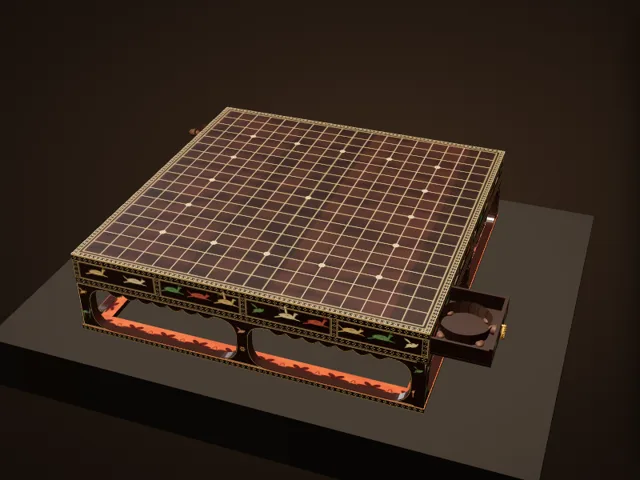
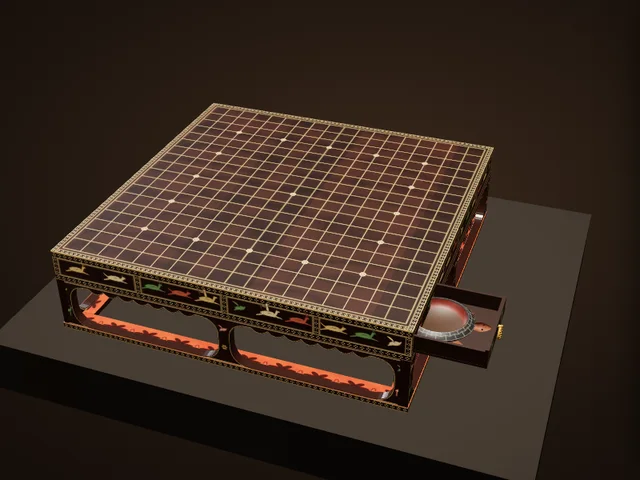
博物館：遠目のちらつきを修正（双六局の隅・ダイスタワーの透かし）、正倉院碁盤の亀形容器を写真に合わせて作り直し
Claude-Session: https://claude.ai/code/session_01EiWRAZTxRF5M5nk5vdR2jJ

diff --git a/atlas/museum/ex/shosoin.js b/atlas/museum/ex/shosoin.js
@@ -145,7 +145,7 @@
       [[S + .3, RW, 0, S / 2 - RW / 2 + .15], [S + .3, RW, 0, -S / 2 + RW / 2 - .15]].forEach(([w, d, x, z]) => add(new TT.BoxGeometry(w, RAIL, d), [rsM, rsM, kak, shitan, z > 0 ? rsM : shitan, z > 0 ? shitan : rsM], x, RAIL / 2, z));
       [[RW, S - 2 * RW + .3, S / 2 - RW / 2 + .15, 0], [RW, S - 2 * RW + .3, -S / 2 + RW / 2 - .15, 0]].forEach(([w, d, x, z]) => { const k2 = kak.clone(); k2.map = kakT.clone(); k2.map.center.set(.5, .5); k2.map.rotation = Math.PI / 2; k2.map.needsUpdate = true; add(new TT.BoxGeometry(w, RAIL, d), [x > 0 ? rsM : shitan, x > 0 ? shitan : rsM, k2, shitan, shitan, shitan], x, RAIL / 2, z); });
       /* ---------- the drawers: at diagonally opposite ends of the two side faces (±x); the near one pulled out ---------- */
-      const DW = S / 4 - .95, DH = BODY - TOP - 1.75, OUT = 7.2, gilt = K.mat({ color: '#d6a84c', roughness: .3, metalness: 1 });
+      const DW = S / 4 - .95, DH = BODY - TOP - 1.75, OUT = 8.6, gilt = K.mat({ color: '#d6a84c', roughness: .3, metalness: 1 });
       const dark = K.mat({ color: '#2a1810', roughness: .6 });
       const DG = new TT.Group(); DG.rotation.y = 0; G.add(DG);
       const drawer = (sx, z, out) => { const g2 = new TT.Group(); g2.position.set(sx * (S / 2 + out), BASE + (BODY - TOP) / 2, z); g2.rotation.y = sx > 0 ? Math.PI / 2 : -Math.PI / 2; DG.add(g2);
@@ -159,13 +159,36 @@
         const knob = new TT.Mesh(new TT.CylinderGeometry(.2, .2, .4, 12), gilt); knob.rotation.x = Math.PI / 2; knob.position.set(0, -.15 + RR + .1, .45); g2.add(knob);
         if (out > .1) { const sd = new TT.BoxGeometry(.35, DH - .3, out + 1); [-DW / 2 + .2, DW / 2 - .2].forEach(x => { const m = new TT.Mesh(sd, dark); m.position.set(x, -.15, -(out + 1) / 2); g2.add(m); });
           const bt = new TT.Mesh(new TT.BoxGeometry(DW, .3, out + 1), dark); bt.position.set(0, -DH / 2 + .15, -(out + 1) / 2); g2.add(bt);
-          // the turtle tray: a round open bowl with a shell-segmented rim, head and feet
-          const tr = new TT.Group(); tr.position.set(0, -DH / 2 + .3, -out / 2 - .6); g2.add(tr);
-          const rimT = K.tex(512, 64, (g, w, h) => { g.fillStyle = '#3a2418'; g.fillRect(0, 0, w, h); g.strokeStyle = '#1a0c06'; g.lineWidth = 3; for (let x = 0; x < w; x += 32) { g.beginPath(); g.moveTo(x, 0); g.lineTo(x + 8, h / 2); g.lineTo(x, h); g.stroke(); } });
-          const bowl = new TT.Mesh(new TT.CylinderGeometry(3.4, 3.1, 1.8, 40, 1, true), K.mat({ map: rimT, color: '#ffffff', roughness: .55, side: TT.DoubleSide })); bowl.position.y = .9; tr.add(bowl);
-          const inner = new TT.Mesh(new TT.CircleGeometry(3.1, 40), dark); inner.rotation.x = -Math.PI / 2; inner.position.y = .2; tr.add(inner);
-          const hd = new TT.Mesh(new TT.SphereGeometry(.75, 14, 10), K.mat({ color: '#4a2a18', roughness: .5 })); hd.scale.set(1, .8, 1.3); hd.position.set(0, .9, 3.8); tr.add(hd);
-          [[2.4, 2.4], [-2.4, 2.4], [2.4, -2.4], [-2.4, -2.4]].forEach(([x, z]) => { const ft = new TT.Mesh(new TT.SphereGeometry(.6, 10, 8), K.mat({ color: '#4a2a18', roughness: .5 })); ft.scale.set(1.2, .5, .9); ft.position.set(x, .3, z); tr.add(ft); }); }
+          // the turtle-shaped holder for the stones (photographs CO0000000424 / 427: a shallow oval bowl, its wide rim the edge of the
+          // shell with the plates drawn in silver lines on dark lacquer, the inside red-brown with a stippled floor, a red-brown head
+          // flecked with gold reaching to the drawer's front, the feet showing under the rim)
+          const RX = 4.3, RZ = 4.45, tr = new TT.Group(); tr.position.set(0, -DH / 2 + .3, -.45 - 2.0 - RZ); g2.add(tr);
+          const nz = K.noise(77), bowlT = K.tex(1024, 448, (g, w, h) => { const row = h / 7, Y = v => h - v * row;   // v 0…7 along the profile
+            g.fillStyle = '#3a2416'; g.fillRect(0, 0, w, h);
+            const im = g.getImageData(0, 0, w, h), d = im.data;   // the floor: brown, stippled like shagreen; the wall: red-brown
+            for (let y = 0; y < h; y++) for (let x = 0; x < w; x++) { const v = (h - y) / row, i = (y * w + x) * 4, n = nz(x * .5, y * .5, 2), m = nz(x * .03, y * .05, 3);
+              let c = v < 1 ? [52 + n * 26, 36 + n * 16, 24 + n * 10] : v < 2.05 ? [78 + m * 36, 26 + m * 14, 16 + m * 8] : v < 4.1 ? [30 + m * 16, 29 + m * 15, 28 + m * 14] : [44 + m * 16, 26 + m * 10, 16 + m * 6];
+              d[i] = c[0]; d[i + 1] = c[1]; d[i + 2] = c[2]; }
+            g.putImageData(im, 0, 0);
+            g.strokeStyle = 'rgba(176,174,166,.8)'; g.lineWidth = 1.8; g.lineJoin = 'round';   // the plates of the shell's edge, silver lines
+            const N = 22, pw = w / N, y0 = Y(3.05), y1 = Y(3.95), ym = Y(3.42);
+            g.beginPath(); g.moveTo(0, y0); g.lineTo(w, y0); g.moveTo(0, y1); g.lineTo(w, y1); g.stroke();
+            for (let k = 0; k < N; k++) { const x = k * pw; g.beginPath(); g.moveTo(x, y1); g.lineTo(x, ym + 4); g.lineTo(x + pw / 2, ym - 5); g.lineTo(x + pw, ym + 4); g.stroke();
+              g.beginPath(); g.moveTo(x + pw / 2, ym - 5); g.lineTo(x + pw / 2, y0); g.stroke(); }
+          });
+          const prof = [[0, .3], [2.95, .3], [3.3, 1.5], [3.42, 1.62], [4.3, 1.02], [4.24, .84], [3.2, .12], [0, .12]].map(([r, y]) => new TT.Vector2(r / 4.3, y));
+          const bowl = new TT.Mesh(new TT.LatheGeometry(prof, 44), K.mat({ map: bowlT, color: '#ffffff', roughness: .5, clearcoat: .25, clearcoatRoughness: .4, side: TT.DoubleSide })); bowl.scale.set(RX, 1, RZ); bowl.castShadow = bowl.receiveShadow = true; tr.add(bowl);
+          const skinT = K.tex(256, 256, (g, w, h) => { const im = g.createImageData(w, h), d = im.data, n2 = K.noise(78);
+            for (let y = 0; y < h; y++) for (let x = 0; x < w; x++) { const i = (y * w + x) * 4, m = n2(x * .04, y * .04, 3), f = n2(x * .9, y * .9, 1), gold = f > .8 ? 1 : 0;
+              d[i] = gold ? 170 : 84 + m * 44; d[i + 1] = gold ? 120 : 34 + m * 20; d[i + 2] = gold ? 52 : 20 + m * 10; d[i + 3] = 255; } g.putImageData(im, 0, 0); });
+          const skin = K.mat({ map: skinT, color: '#ffffff', roughness: .5, clearcoat: .2, clearcoatRoughness: .5 }), eyeM = K.mat({ color: '#15100c', roughness: .3 });
+          const hp = [[.001, 2.2], [.2, 2.12], [.42, 1.75], [.6, 1.25], [.66, .85], [.56, .45], [.44, .1], [.46, -.5]].map(([r, y]) => new TT.Vector2(r, y));
+          const hd = new TT.Mesh(new TT.LatheGeometry(hp, 20), skin); hd.rotation.x = Math.PI / 2 - .12; hd.scale.set(1, 1, .8); hd.position.set(0, .95, RZ - .25); hd.castShadow = true; tr.add(hd);
+          [-1, 1].forEach(sx => { const e = new TT.Mesh(new TT.SphereGeometry(.1, 10, 8), eyeM); e.position.set(sx * .47, 1.12, RZ + .95); tr.add(e); });
+          const fs = new TT.Shape(); fs.moveTo(-.42, 0); fs.lineTo(-.6, .95); for (let k = 0; k < 4; k++) fs.quadraticCurveTo(-.6 + (k + .5) * .3, 1.5, -.6 + (k + 1) * .3, 1.0); fs.lineTo(.42, 0); fs.closePath();
+          const fg = new TT.ExtrudeGeometry(fs, { depth: .22, bevelEnabled: true, bevelThickness: .08, bevelSize: .08, bevelSegments: 2, curveSegments: 5 }); fg.rotateX(Math.PI / 2);   // lying flat, the toes toward +z
+          [[.82, .8], [-.82, .8], [2.45, .7], [-2.45, .7]].forEach(([a, sc]) => { const ft = new TT.Mesh(fg, skin); ft.rotation.y = a; ft.scale.setScalar(sc); ft.position.set(Math.sin(a) * RX * .9, .3, Math.cos(a) * RZ * .9); ft.castShadow = true; tr.add(ft); });
+        }
       };
       drawer(1, S / 2 - (.75 + S / 4) / 2, OUT); drawer(-1, -S / 2 + (.75 + S / 4) / 2, .3);
       return G;

diff --git a/atlas/museum/ex/sugoroku.js b/atlas/museum/ex/sugoroku.js
@@ -124,7 +124,7 @@
       const geoFor = (len, n) => new TT.ExtrudeGeometry(skirtFor(len, n), { depth: 1.3, bevelEnabled: true, bevelThickness: .06, bevelSize: .06, bevelSegments: 1, curveSegments: 14 });
       const gL = geoFor(L, 2), gW = geoFor(W, 1), mL = baseMat(L, 2, 5), mW = baseMat(W, 1, 6);
       [[gL, mL, 0, W / 2 - 1.3, 0], [gL, mL, 0, -W / 2 + 1.3, Math.PI], [gW, mW, L / 2 - 1.3, 0, Math.PI / 2], [gW, mW, -L / 2 + 1.3, 0, -Math.PI / 2]].forEach(([geo, m, x, z, ry]) => {
-        const o = new TT.Mesh(geo, [m, inner]); o.rotation.y = ry; o.position.set(x, RAIL, z); o.castShadow = o.receiveShadow = true; G.add(o); });
+        const o = new TT.Mesh(geo, [m, inner]); o.rotation.y = ry; o.position.set(x, RAIL, z); o.scale.x = .9975;   /* (each panel a hair short: its end face lay in the same plane as the next panel's front and the two fought at the corner legs, a flicker at a distance) */ o.castShadow = o.receiveShadow = true; G.add(o); });
       add(new TT.BoxGeometry(L - 2.6, .5, W - 2.6), inner, 0, BASE - .25, 0);
       // the low rail: dark, with ivory edges and a row of ivory dots and little lozenges
       const railT = (len) => { const s = 2048 / len; return K.tex(2048, Math.max(8, Math.round(RAIL * s)), (g, w, h) => { g.drawImage(shT.image, 0, 0, w, h);

diff --git a/atlas/museum/ex/pyrgus.js b/atlas/museum/ex/pyrgus.js
@@ -33,7 +33,7 @@
         LINES.forEach((t, i) => letters(g, w, s, top + i * bh + s * .12, bh - s * .24, t));
         g.fillStyle = '#000'; g.beginPath(); g.rect(s * 2.0, h - s * 2.6, w - s * 4.0, s * 2.6); g.fill(); });   // the exit at the foot, onto the steps
       const side = word => face((g, w, h, s) => { letters(g, w, s, s * .75, s * 2.3, word); lattice(g, w, s, s * 3.45, h - s * .7); });
-      const metal = am => K.mat({ map: patT, alphaMap: am, alphaTest: .5, transparent: false, side: TT.DoubleSide, color: '#ffffff', roughness: .45, metalness: .7 });
+      const metal = am => K.mat({ map: patT, alphaMap: am, alphaTest: .35, alphaToCoverage: true, transparent: false,   /* (alpha-to-coverage: the openwork's edges are anti-aliased, so the lattice does not sparkle at a distance) */ side: TT.DoubleSide, color: '#ffffff', roughness: .45, metalness: .7 });
       const faces = [[front, 0, W / 2, 0], [side('VTERE'), Math.PI / 2, 0, W / 2], [side('FELIX'), Math.PI, -W / 2, 0], [side('VIVAS'), -Math.PI / 2, 0, -W / 2]];
       // front faces +z
       const planeG = new TT.PlaneGeometry(W, H);

diff --git a/atlas/museum.js b/atlas/museum.js
@@ -32,7 +32,7 @@
   const ROOMS = [
     { id: 'map', ready: () => !!window.AtlasMap, render: (el, c) => AtlasMap.render(el, c) },
     { id: 'tree', src: ['museum/tree.js?v=3'], ready: () => !!window.AtlasTree, render: (el, c) => AtlasTree.render(el, c) },
-    { id: 'gallery', src: ['museum/gallery.js?v=38'], ready: () => !!window.AtlasGallery, render: (el, c) => AtlasGallery.render(el, c) },
+    { id: 'gallery', src: ['museum/gallery.js?v=39'], ready: () => !!window.AtlasGallery, render: (el, c) => AtlasGallery.render(el, c) },
   ];
   const KEY = 'atlas-museum-room';
   const esc = s => String(s == null ? '' : s).replace(/[&<>"]/g, c => ({ '&': '&amp;', '<': '&lt;', '>': '&gt;', '"': '&quot;' }[c]));

diff --git a/atlas/index.html b/atlas/index.html
@@ -2559,7 +2559,7 @@ window.AtlasRgdTimer = function (btn, ms, alive) {
 <link rel="stylesheet" href="worldmap.css?v=19">
 <link rel="stylesheet" href="museum.css?v=4">
 <script src="worldmap.js?v=40"></script>
-<script src="museum.js?v=39"></script>
+<script src="museum.js?v=40"></script>
 <script src="npc/npc.js?v=46"></script>
 <script src="avtalk.js?v=4"></script>
 <script>/* Page states as classes on <html> (2026-11-21) — html.cov-on: the 3D view / Historia / a sheet / a level sheet is open;

diff --git a/atlas/museum/gallery.js b/atlas/museum/gallery.js
@@ -10,7 +10,7 @@
    (a turn, a zoom, the slow turntable) and never while the window is in the background. */
 (function () {
   'use strict';
-  const V = 38;
+  const V = 39;
   /* ---------- the pieces: id, the game it belongs to, its scale (cm per model unit), the camera's start, the details ----------
      lock: { game, ach } → open after that many achievements of the game. src: the files the piece needs (besides ex/<id>.js) */
   const EX = [

diff --git a/claude/museum-spec.md b/claude/museum-spec.md
@@ -60,12 +60,13 @@
   - **彫像は `kit.relief`（2026-11-21）**：一塊から彫った像（象牙・木・石）は、球や円柱の寄せ集めにしない（人形のように見える）。表と裏それぞれの「高さの絵」（cm 単位、白＝出る・黒＝彫り込む）と輪郭の絵から、格子のメッシュ（大きな形）＋バンプ（細かい彫り）＋彫り込みに汚れのたまった色を作る（`atlas/museum/gallery.js` の `kit.relief`、手本 `ex/lewis.js`）。1体 6〜9千三角形。格子より細い部品（槍など）は別の形状で足す。
   - **照明と白飛び（2026-11-21）**：平らでつやのある盤は、平行光がカメラの反対側にあると天面全体が白く光る（遠目のちらつき・白飛びの主因だった）。ビューアの光は、主光＝ほぼ真上（約82°）のスポット、リム光と補助光＝テーブルとほぼ水平（天面には当てない）、部屋の映り込みは半分（`environmentIntensity .5`）、そのぶん半球光を上げる。確認は `AtlasGallery._v()`（開いているビューア）を使い、ヨー12方向×ピッチ5段で画面中央の明るさを測る（急に明るくなる角度がないこと）。
   - **細い明るい形状は作らない**：幅数ミリの象牙の線などを箱で置くと遠目でちらつく。テクスチャに描く（ミップマップで平均される）。ちらつきの測り方：スマホ相当の画面でいちばん遠くまで引き、0.035°ずつ回した3枚の差（ウルの盤が基準：差が30を超える画素 0.00%）。
+  - **同じ平面に面を重ねない／透かしはアルファ・トゥ・カバレッジ**：隣り合う部品の面が同じ平面にあると遠目でちらつく（双六局の隅の脚。片方を少し短くする）。alphaTest の透かし（ダイスタワー）は `alphaToCoverage: true` を付けて縁を滑らかにする。
   - **重さの基準**：三角形は展示1点 8万以下（`atlas/tools/exrender.html` が `window.stats` に三角形数・メッシュ数・テクスチャの枚数とメモリを出す）。
   - スマホで遠目に見たときのちらつき・白飛びがないこと（カメラの near/far を狭く、テクスチャはミップマップと異方性フィルタ、トーンマップの露出 .85、重なる面は polygonOffset）。
 - 収蔵品（2026-11-21）：
   - ウルの王族のゲーム盤（大英博物館 120834）— ポータルのウルの3D盤（`atlas/models/ur.js`）をそのまま使う（実物そっくりの出来）。
   - ツタンカーメンのセネト盤（エジプト博物館 JE 62058）— 黒檀の箱・象牙の30マス・引き出し・動物の脚・そりの滑り木。高さ20.5cm・幅16cm。
-  - 木画紫檀棊局（正倉院 北倉36）— 紫檀・象牙の19路・17の花眼・木画の側面・亀形の容器の引き出し（手前を少し開けて展示）。
+  - 木画紫檀棊局（正倉院 北倉36）— 紫檀・象牙の19路・17の花眼・木画の側面・亀形の容器の引き出し（手前を開けて展示。容器は写真 CO0000000424・427 に合わせ、甲の縁に銀線の甲羅文、内側は赤茶、金の散る赤茶の頭と足）。
   - ヴェットヴァイス＝フロイツハイムのダイスタワー（ローマのピュルグス、4世紀、ボン・ライン州立博物館 Inv. 85.0269.00）— 銅合金の透かし彫りの面・銘文・中の段・サイコロ。高さ22cm。
   - バリンダリーのゲーム盤（アイルランド国立博物館 NMI 1932:6533、10世紀）— イチイ材・7×7の穴・中央と四すみの円弧・8区画の彫刻・人と動物の頭の持ち手・割れ目。厚さは複製品の寸法、模様の配置と描き方は推定。
   - ルイス島のチェス駒（大英博物館82点・スコットランド国立博物館11点、1150〜1200年ごろ）— 王・女王・司教・騎士・盾をかむ城兵・歩兵を1つずつ。高さは代表的な駒の記録に合わせ、顔や玉座の彫刻は推定。
